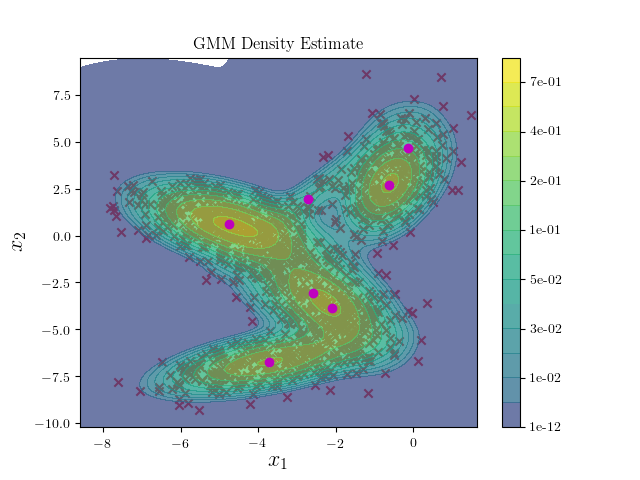
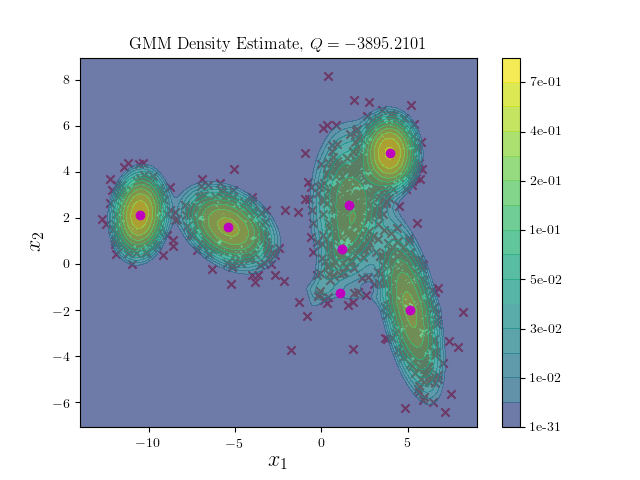
Fixed random restarts and other minor improvements.

diff --git a/mixture_gaussians.py b/mixture_gaussians.py
@@ -118,6 +118,7 @@ class GaussianMixtureModel:
         return pi, mu, Sigma
 
     def _Qfunc(self, X, r, pi, mu, Sigma):
+        p = X.shape[1]
         log_pi = np.log(pi)
         if np.any(np.isnan(log_pi)):
             if self.do_logging:
@@ -128,13 +129,16 @@ class GaussianMixtureModel:
         U = np.moveaxis(X[:, None, :] - mu, 0, 1)
 
         try:
-            nll = -0.5 * (np.einsum('ki,k->', r, np.linalg.slogdet(Sigma)[1])
-                          + np.einsum('ki,kip,kpq,kiq->',
-                                      r, U, np.linalg.inv(Sigma), U))
+            L = np.linalg.cholesky(Sigma)
         except np.linalg.LinAlgError as e:
             if self.do_logging:
                 self.logger.error('LinAlgError in Q: %s' % e)
             raise QstepException('LinAlgError')
+
+        nll = -np.dot(np.sum(r, axis=1),
+                      np.sum(np.log(L[:, range(p), range(p)]), axis=1))
+        Z = np.einsum('kpq,kiq->kip', np.linalg.inv(L), U)
+        nll -= 0.5 * np.einsum('ki,ki', r, np.linalg.norm(Z, axis=2)**2)
 
         Q = cluster_quality + nll
         return Q
@@ -161,6 +165,7 @@ class GaussianMixtureModel:
         if self.MAP_regularize:
             self.S0 = np.var(X, axis=0)
 
+        Q_best = -np.inf
         for _ in range(num_restarts):
             if self.do_logging:
                 self.logger.info('----- EM restart ------')
@@ -171,10 +176,7 @@ class GaussianMixtureModel:
             pi = np.abs(np.random.normal(size=K))
             pi = pi / np.sum(pi)
 
-            pi_best, mu_best, Sigma_best = pi, mu, Sigma
-
             # Intialization for loop conditions
-            Q_best = -np.inf
             Q_prev = -np.inf
             delta_Q = np.inf
             step_count = 0
@@ -237,6 +239,7 @@ class GaussianMixtureModel:
             callback(X, pi_best, mu_best, Sigma_best, Q_best)
 
         self.pi, self.mu, self.Sigma = pi_best, mu_best, Sigma_best
+        self.Q_best = Q_best
         if self.prune_clusters:
             K = self.mu.shape[0]
             if K < self.num_clusters:
@@ -304,5 +307,5 @@ class GaussianMixtureModel:
         plt.scatter(self.mu[:, 0], self.mu[:, 1], color='m', marker='o')
         ax.set_xlabel('$x_1$', fontsize=16)
         ax.set_ylabel('$x_2$', fontsize=16)
-        ax.set_title('GMM Density Estimate')
+        ax.set_title('GMM Density Estimate, $Q = %0.4f$' % self.Q_best)
         return fig
